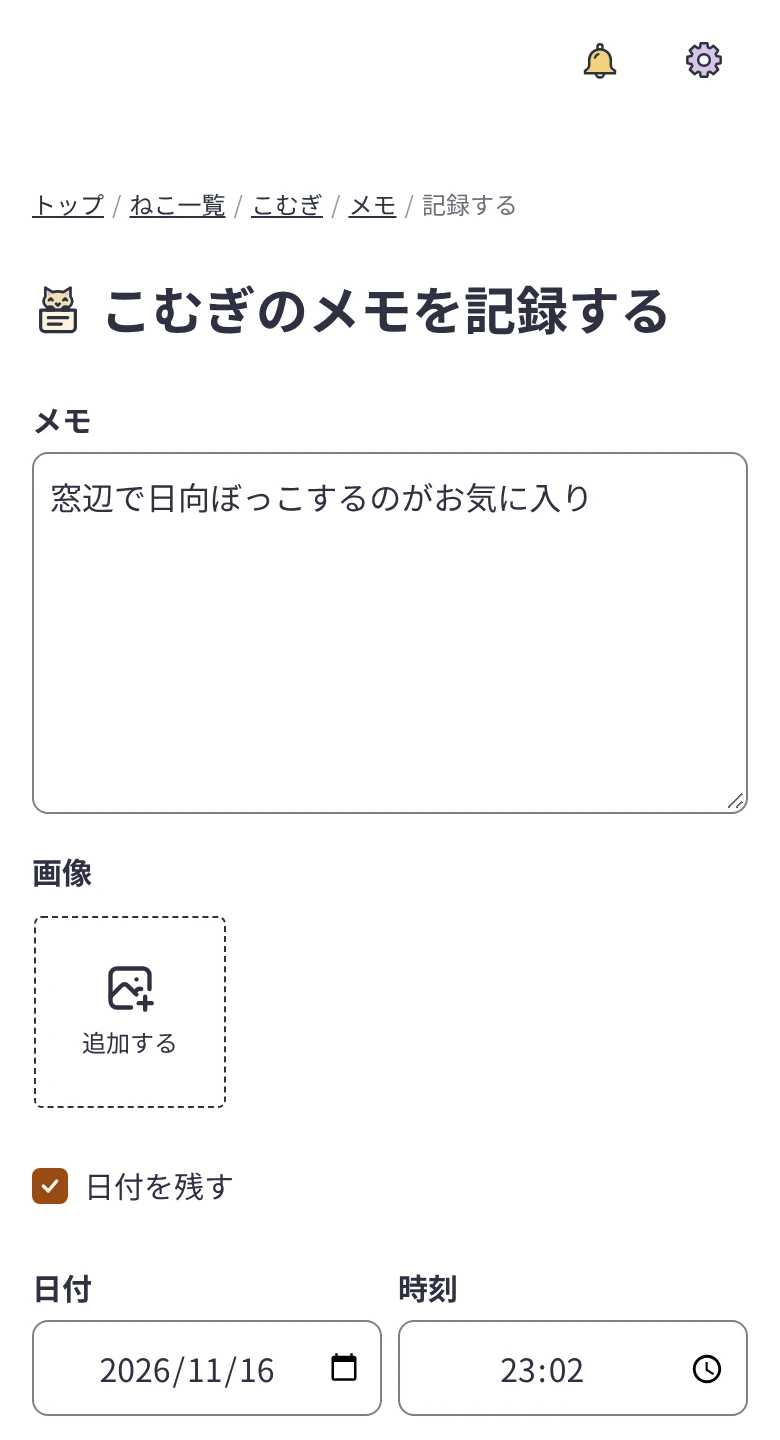
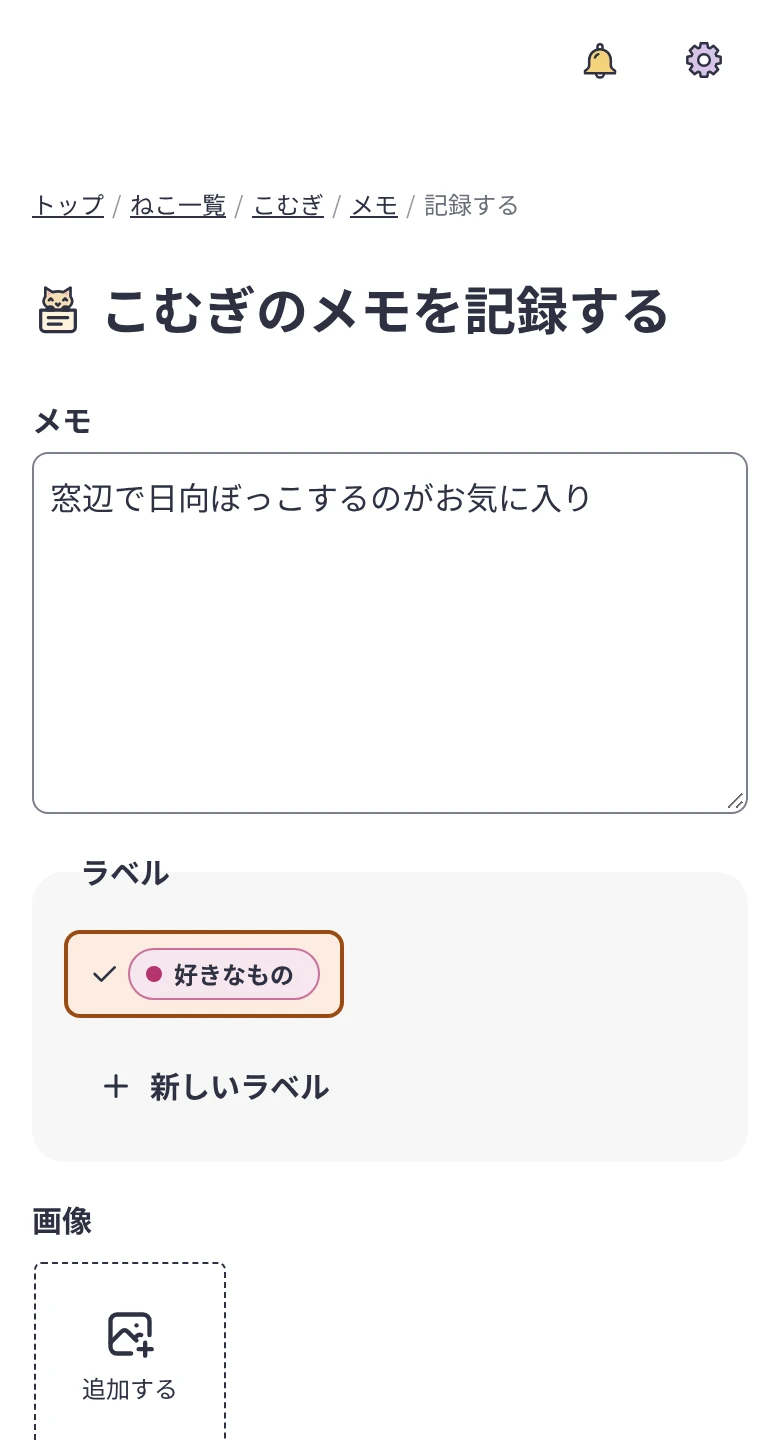
ヘルプにメモのラベルの説明を追加する
Claude-Session: https://claude.ai/code/session_01GXATvhqTKiLoH512w4Ea68

diff --git a/src/features/help/recordHelps.ts b/src/features/help/recordHelps.ts
@@ -463,6 +463,11 @@ export const RECORD_HELPS: RecordHelp[] = [
     lead: "ほかの記録に当てはまらないできごとや、覚えておきたいことを自由に書いて残します。",
     fields: [
       { label: "メモ", description: "残しておきたいことを自由に書きます。" },
+      {
+        label: "ラベル",
+        description:
+          "メモを分類するラベルを付けられます。「新しいラベル」から、好きな名前と色のラベルを作れます。1つのメモに複数のラベルを付けられます。",
+      },
       { label: "画像", description: "写真などの画像を添えられます。" },
       {
         label: "日付を残す",
@@ -472,10 +477,12 @@ export const RECORD_HELPS: RecordHelp[] = [
     ],
     tips: [
       "かかりつけの病院の連絡先など、日付に関係ないことは日付を残さずにメモしておくと便利です。",
+      "メモの一覧では、ラベルを選ぶと、そのラベルが付いたメモだけを表示できます。",
+      "ラベルは家ごとに作り、同じ家のすべてのねこのメモで使えます。名前や色の変更と削除は、メモの一覧の「ラベルの管理」からできます。メモに付いているラベルは削除できません。",
     ],
     screenshot: {
       name: "record-memo",
-      alt: "メモを追加する画面。メモ・画像・日付の入力欄が並んでいる",
+      alt: "メモを追加する画面。メモ・ラベル・画像・日付の入力欄が並んでいる",
       caption: "メモを追加する画面",
     },
   },

diff --git a/e2e/help-screenshots.capture.ts b/e2e/help-screenshots.capture.ts
@@ -477,6 +477,20 @@ test("ヘルプのスクリーンショットを撮る", async ({ page, browser 
     page.getByRole("textbox", { name: "メモ" }),
     "窓辺で日向ぼっこするのがお気に入り",
   );
+  // ラベルを作ると、そのまま選んだ状態になる
+  await page.getByRole("button", { name: "新しいラベル" }).click();
+  const labelDialog = page.getByRole("dialog", { name: "ラベルの追加" });
+  await fillAndKeep(
+    labelDialog.getByRole("textbox", { name: "名前" }),
+    "好きなもの",
+  );
+  await labelDialog.getByText("ピンク", { exact: true }).click();
+  await labelDialog.getByRole("button", { name: "追加する" }).click();
+  await expect(
+    page.getByRole("button", { name: "好きなもの", pressed: true }),
+  ).toBeVisible();
+  // 押した場所にあるボタンにホバーの見た目が付かないようにする
+  await page.mouse.move(0, 0);
   await capture(page, "record-memo");
 
   await page.goto(`${catPath}/timeline`);

diff --git a/src/app/help/households-and-cats/page.tsx b/src/app/help/households-and-cats/page.tsx
@@ -56,6 +56,7 @@ export default function HouseholdsAndCatsHelpPage() {
           <li>ごはんプリセット（よくあげるごはんの組み合わせ）</li>
           <li>ごはんの時間（ごはんのお知らせの時間）</li>
           <li>支出記録（ごはん代や病院代など）</li>
+          <li>メモのラベル（ねこのメモを分類するラベル）</li>
         </ul>
       </Surface>
 
